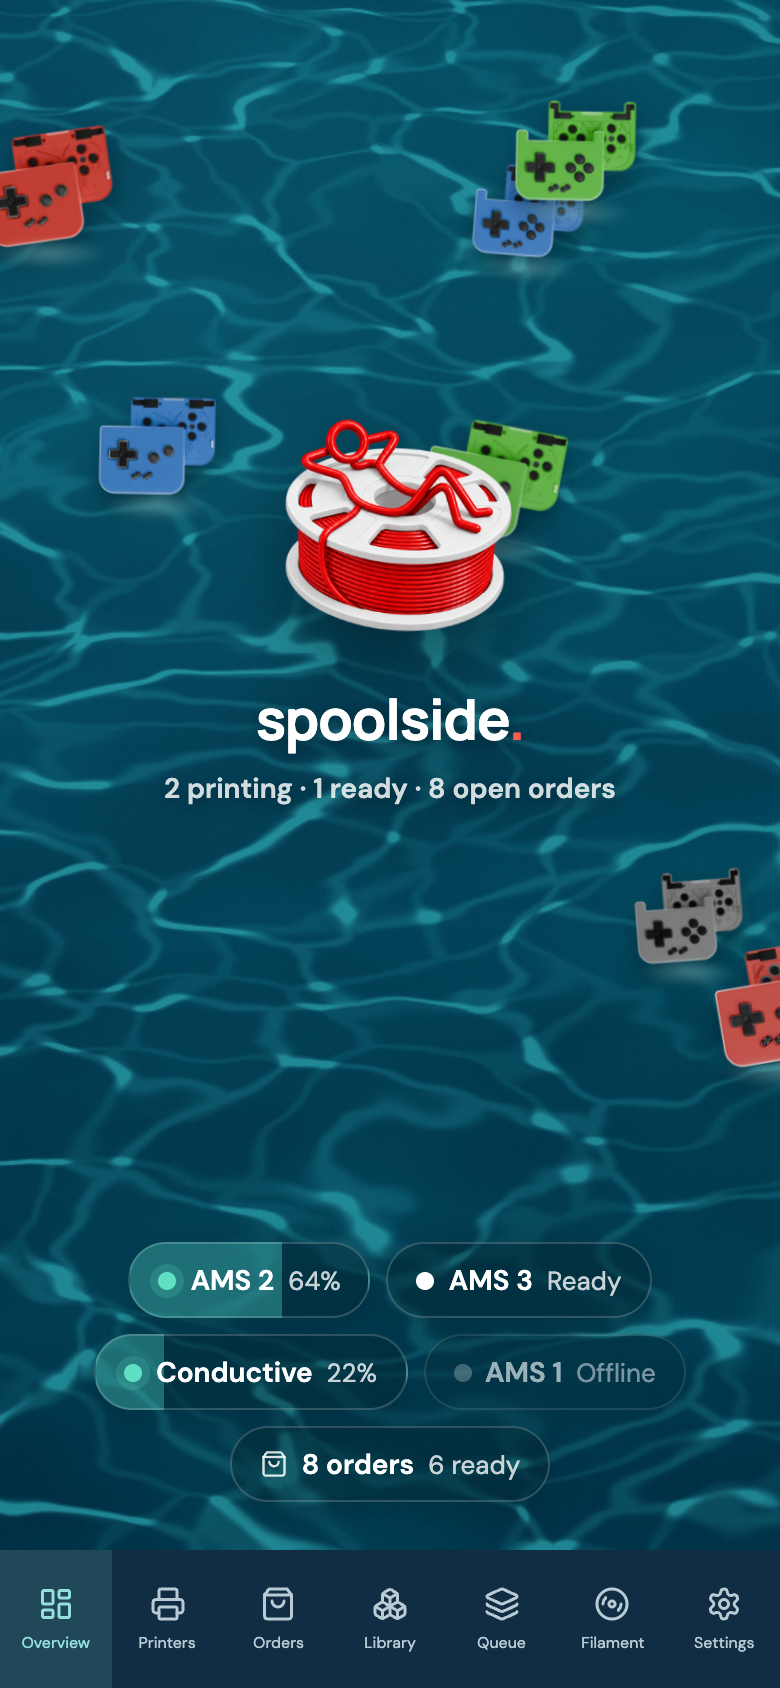
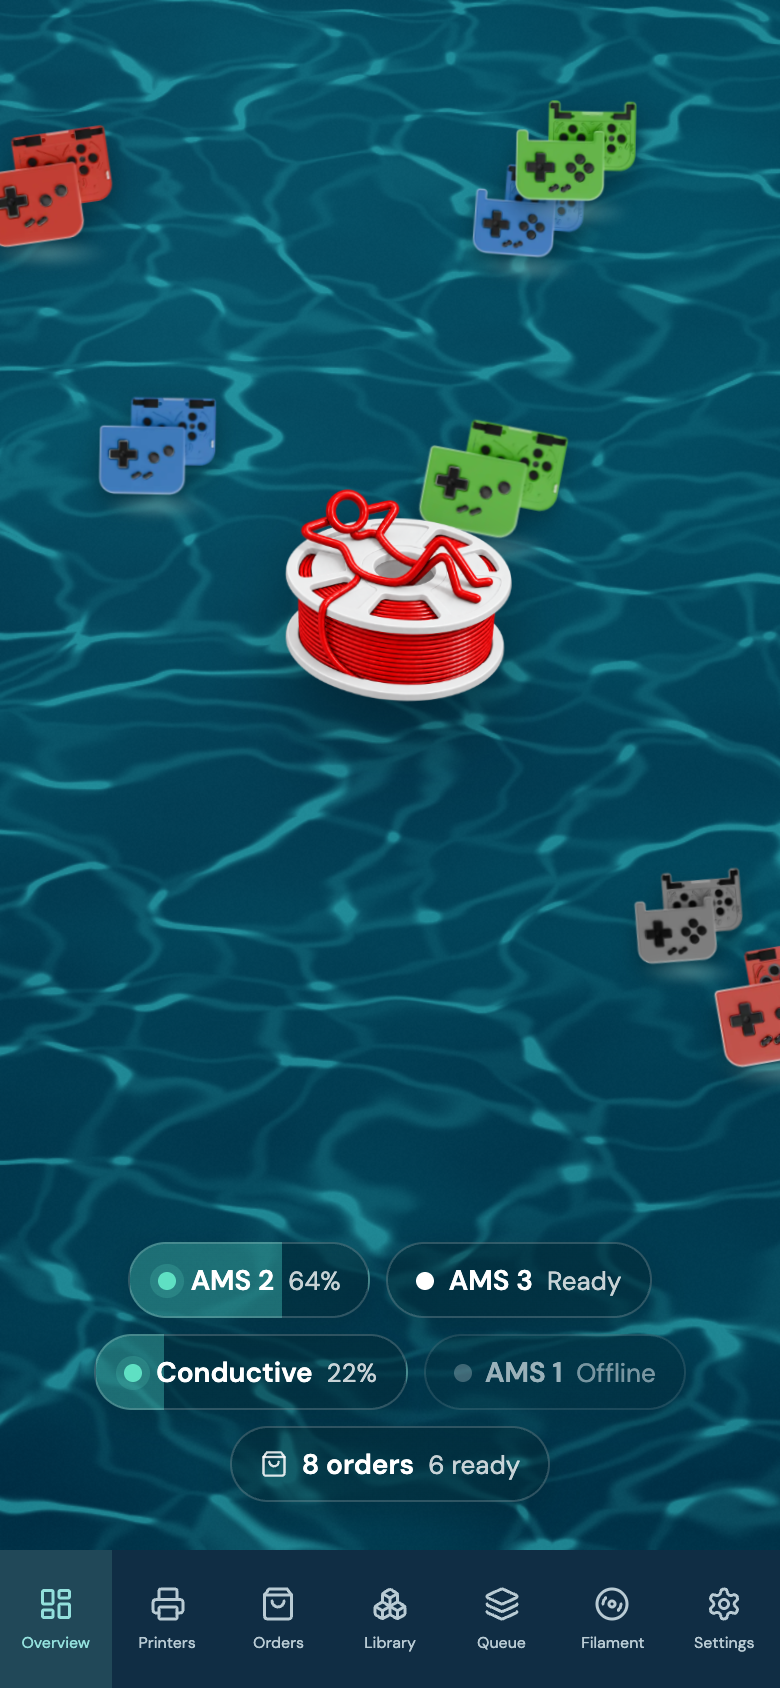
Home screen: drop the wordmark and summary under the spool

Changed region(s): [[0.2154, 0.2464, 0.8, 0.4929]]

diff --git a/src/WaterHome.tsx b/src/WaterHome.tsx
@@ -17,7 +17,7 @@ const seeded = (id: string) => {
   for (const c of id) h = Math.imul(h ^ c.charCodeAt(0), 16777619);
   return (n: number) => ((h = Math.imul(h ^ (h >>> 15), 2246822507) ^ n) >>> 0) / 4294967296;
 };
-const LANES = [6, 30, 70]; // % down the pool: above the spool, behind it, below the wordmark
+const LANES = [6, 30, 70]; // % down the pool: above the spool, behind it, below it
 function FloatingCases({ orders, openOrder }: { orders: Order[]; openOrder: (id: string) => void }) {
   const floating = orders.flatMap((o) => { const c = caseImage(o); return c ? [{ order: o, ...c }] : []; }).slice(0, 10);
   return (
@@ -59,12 +59,7 @@ export function WaterHome({ attention, machines, orders, loading, openPrinter, o
   openOrder: (id: string) => void;
   go: (tab: string) => void;
 }) {
-  const printing = machines.filter((m) => m.state === "Printing").length,
-    ready = machines.filter((m) => m.state === "Ready").length,
-    toPrint = orders.filter((o) => o.printReadiness?.status === "ready").length;
-  const summary = loading
-    ? "Checking the farm…"
-    : [printing && `${printing} printing`, ready && `${ready} ready`, `${orders.length} open order${orders.length === 1 ? "" : "s"}`].filter(Boolean).join(" · ");
+  const toPrint = orders.filter((o) => o.printReadiness?.status === "ready").length;
   return (
     <section className="water-home" aria-label="Spoolside home">
       <WaterBackground className="home-water" />
@@ -72,10 +67,6 @@ export function WaterHome({ attention, machines, orders, loading, openPrinter, o
         <header className="home-mark">
           <FloatingCases orders={orders} openOrder={openOrder} />
           <img src="/spoolside.png" alt="" />
-          <h1>
-            spoolside<span className="brand-dot">.</span>
-          </h1>
-          <p>{summary}</p>
         </header>
         {attention}
         <div className="home-pills">

diff --git a/src/style.css b/src/style.css
@@ -2367,9 +2367,6 @@ footer .tiny-dot {
   .pool-case > span { animation: none; }
 }
 .home-mark > img { width: 132px; height: auto; margin-bottom: 6px; filter: drop-shadow(0 16px 18px rgba(0, 10, 16, 0.45)); }
-.home-mark h1 { margin: 0; color: #fff; font-family: Manrope, sans-serif; font-size: 28px; font-weight: 800; letter-spacing: -0.02em; }
-.home-mark .brand-dot { color: #ff5a4f; }
-.home-mark p { margin: 0; color: rgba(255, 255, 255, 0.82); font-size: 14px; font-weight: 600; }
 /* Printers and orders as pills, anchored to the bottom of the pool. A printing pill fills with its progress. */
 .home-pills { display: flex; flex-wrap: wrap; justify-content: center; gap: 8px; margin-top: auto; padding-top: 8px; }
 .home-pill { --fill: 0%; display: inline-flex; align-items: center; gap: 7px; min-height: 38px; padding: 0 14px; border: 1px solid rgba(255, 255, 255, 0.18); border-radius: 999px; background: linear-gradient(90deg, rgba(95, 224, 195, 0.3) var(--fill), rgba(2, 36, 46, 0.42) var(--fill)); color: #fff; font: inherit; font-size: 14px; -webkit-backdrop-filter: blur(14px) saturate(1.2); backdrop-filter: blur(14px) saturate(1.2); box-shadow: 0 6px 18px rgba(0, 12, 18, 0.22); }
